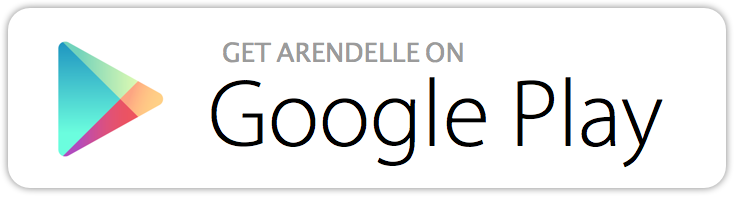
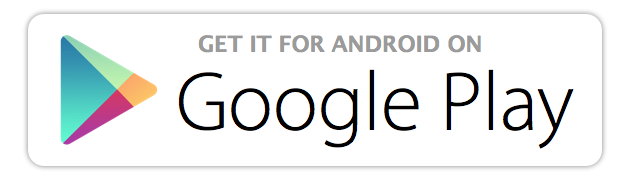
download page

Changed region(s): [[0.0, 0.0, 0.9984, 0.9722], [0.3025, 0.1944, 0.7866, 0.3333]]

diff --git a/download/index.html b/download/index.html
@@ -37,8 +37,32 @@
 
       <p>For now Arendelle works only on Android phones. However, Our iOS app is coming very soon. If you're an iOS user we ask for your patience. Thank you! Also very soon we will have release for our desktop apps too!</p>
 
-      <a href="https://play.google.com/store/apps/details?id=org.arendelle.android" title="Get Arendelle for Android on Google Play"><img src="googlePlay.png" style="width:15rem"></a>
-      <a href="http://web.arendelle.org" style="font-size:0.7rem;">Back to Homepage</a><br><br>
+      <div style="max-width: 26rem;">
+
+        <div style="float: left;  width: 50%;">
+        
+          <a href="https://itunes.apple.com/us/app/arendelle/id962486181?l=de&ls=1&mt=8#" title="Get Arendelle for iOS on AppStore">
+
+            <img src="appStore.png">
+         </a>
+
+        </div>
+        
+        <div style="float: right; width: 50%;">
+        
+          <a href="https://play.google.com/store/apps/details?id=org.arendelle.android" title="Get Arendelle for Android on Google Play">
+
+            <img src="googlePlay.png">
+
+          </a>
+
+        </div>
+
+      </div>
+
+    
+
+      <a href="http://web.arendelle.org" style="clear: both; font-size:0.85rem;">Back to Homepage</a><br><br>
 
       <!-- FOOTER -->
       <br><br>
